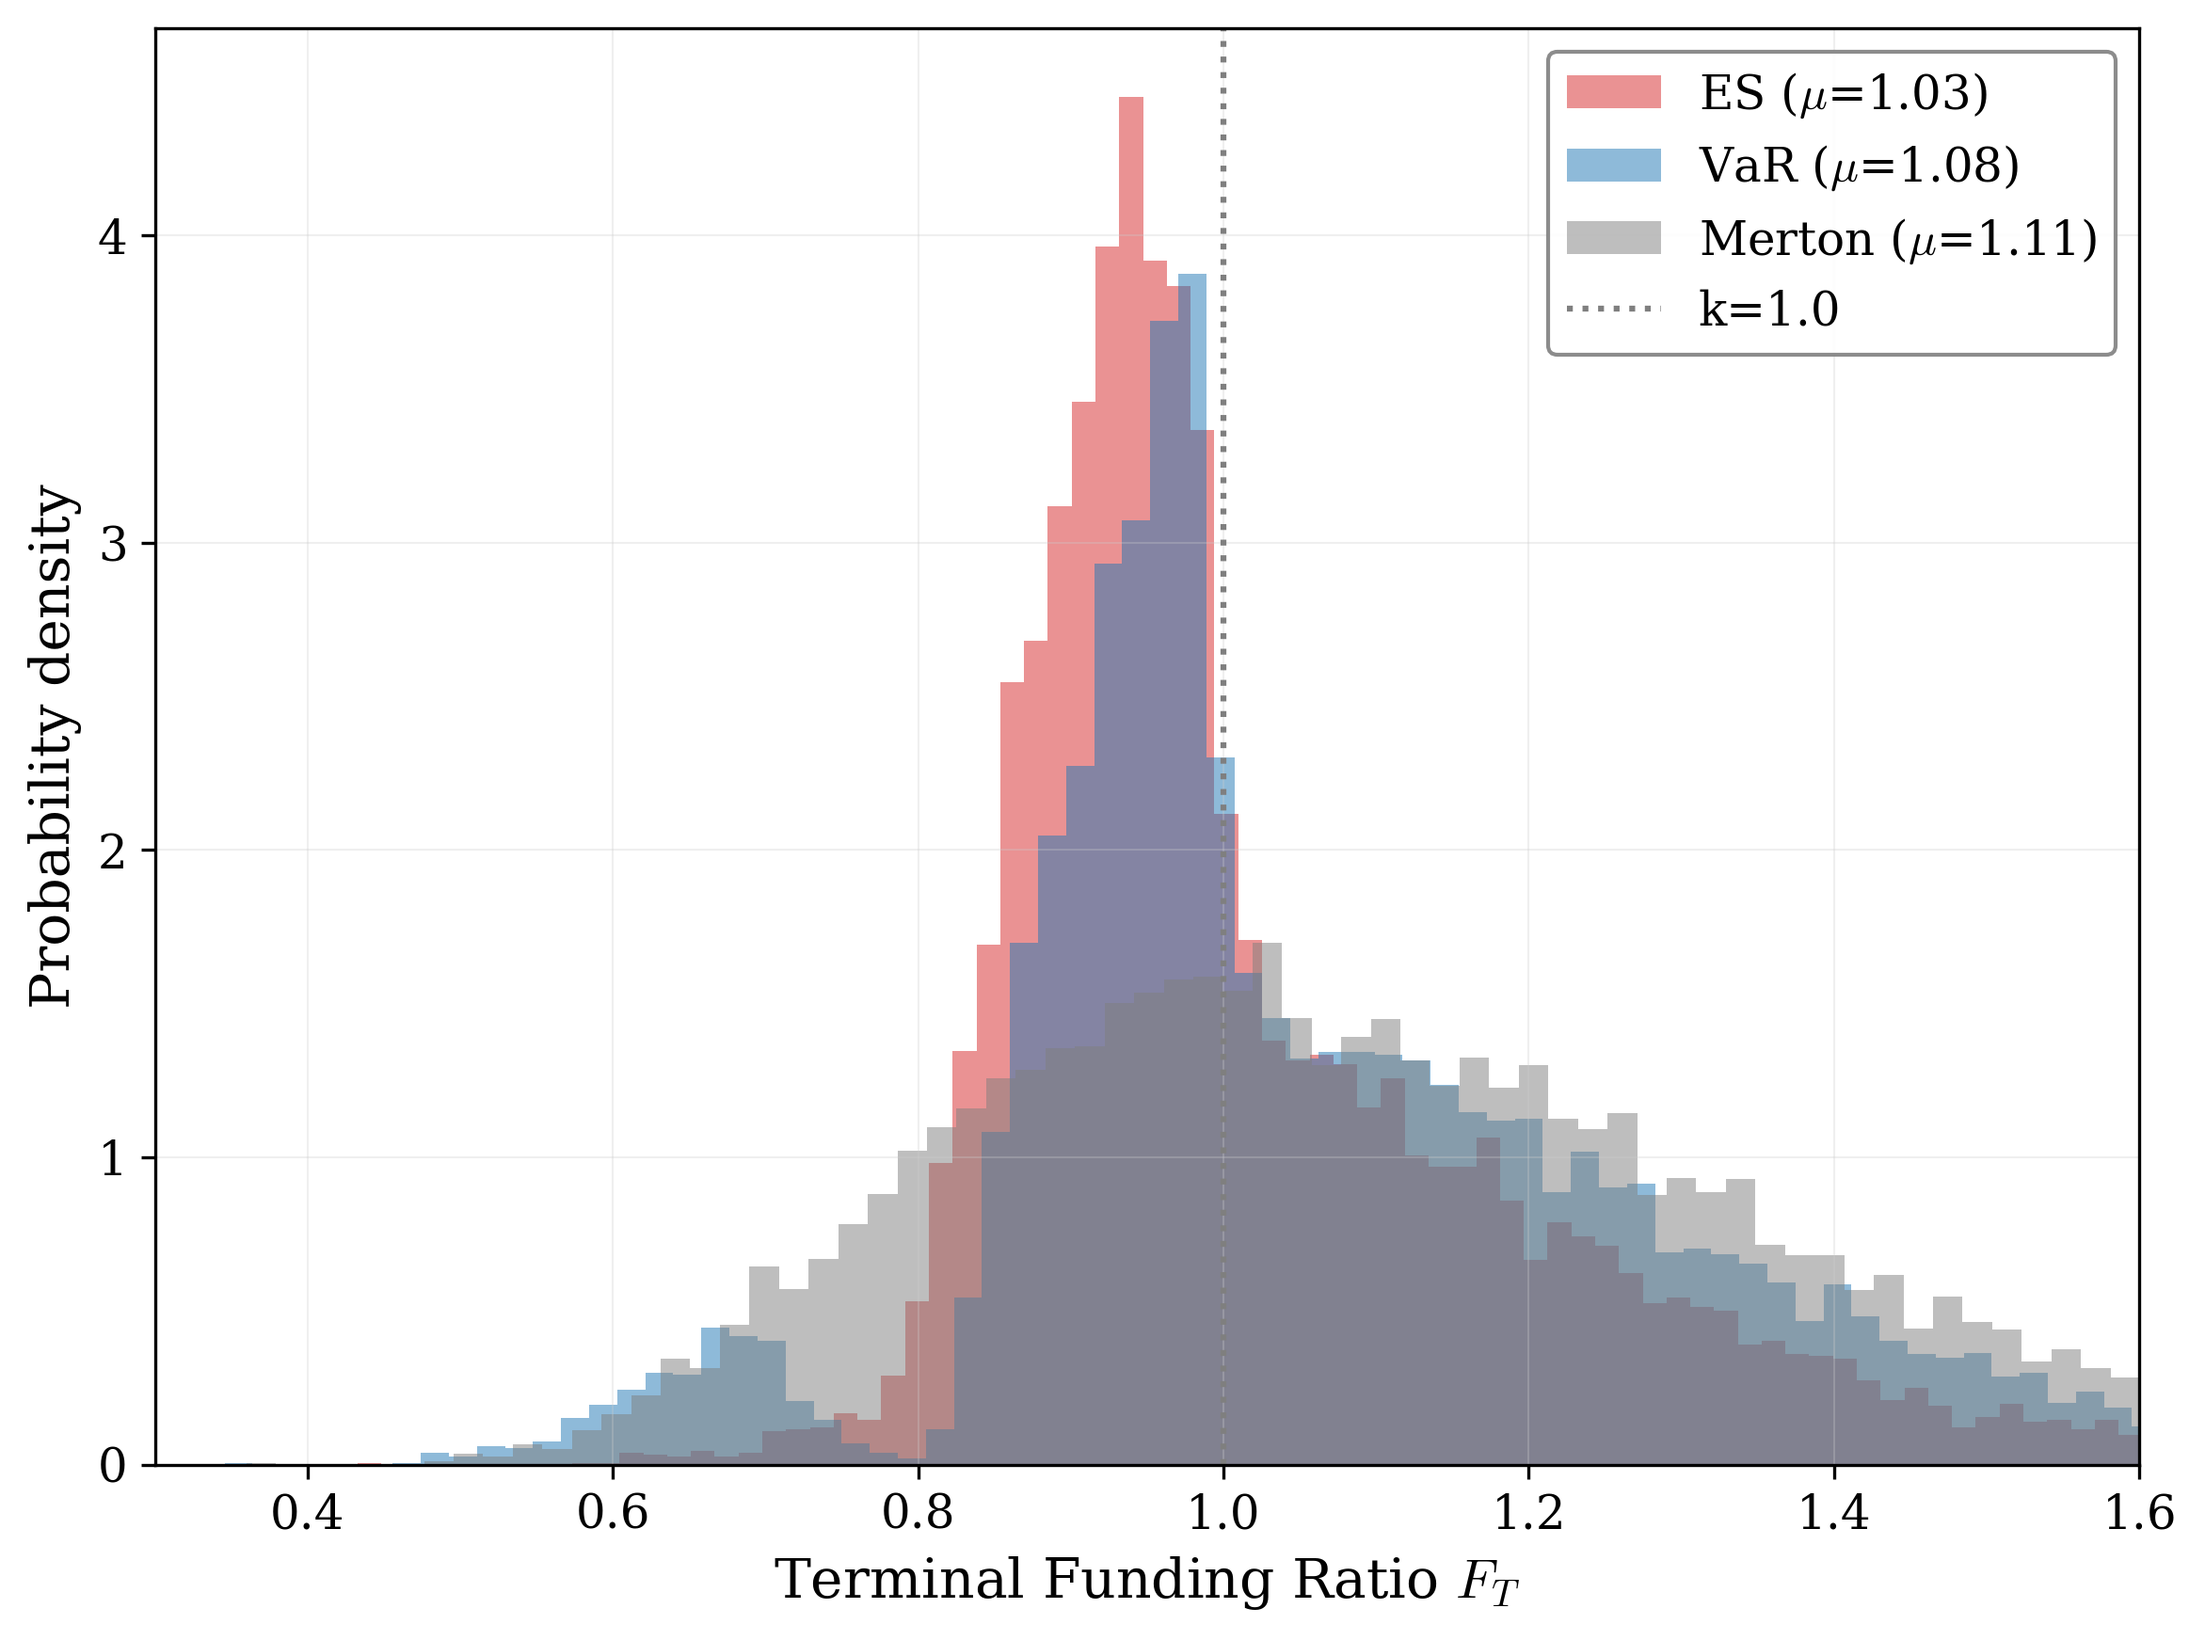
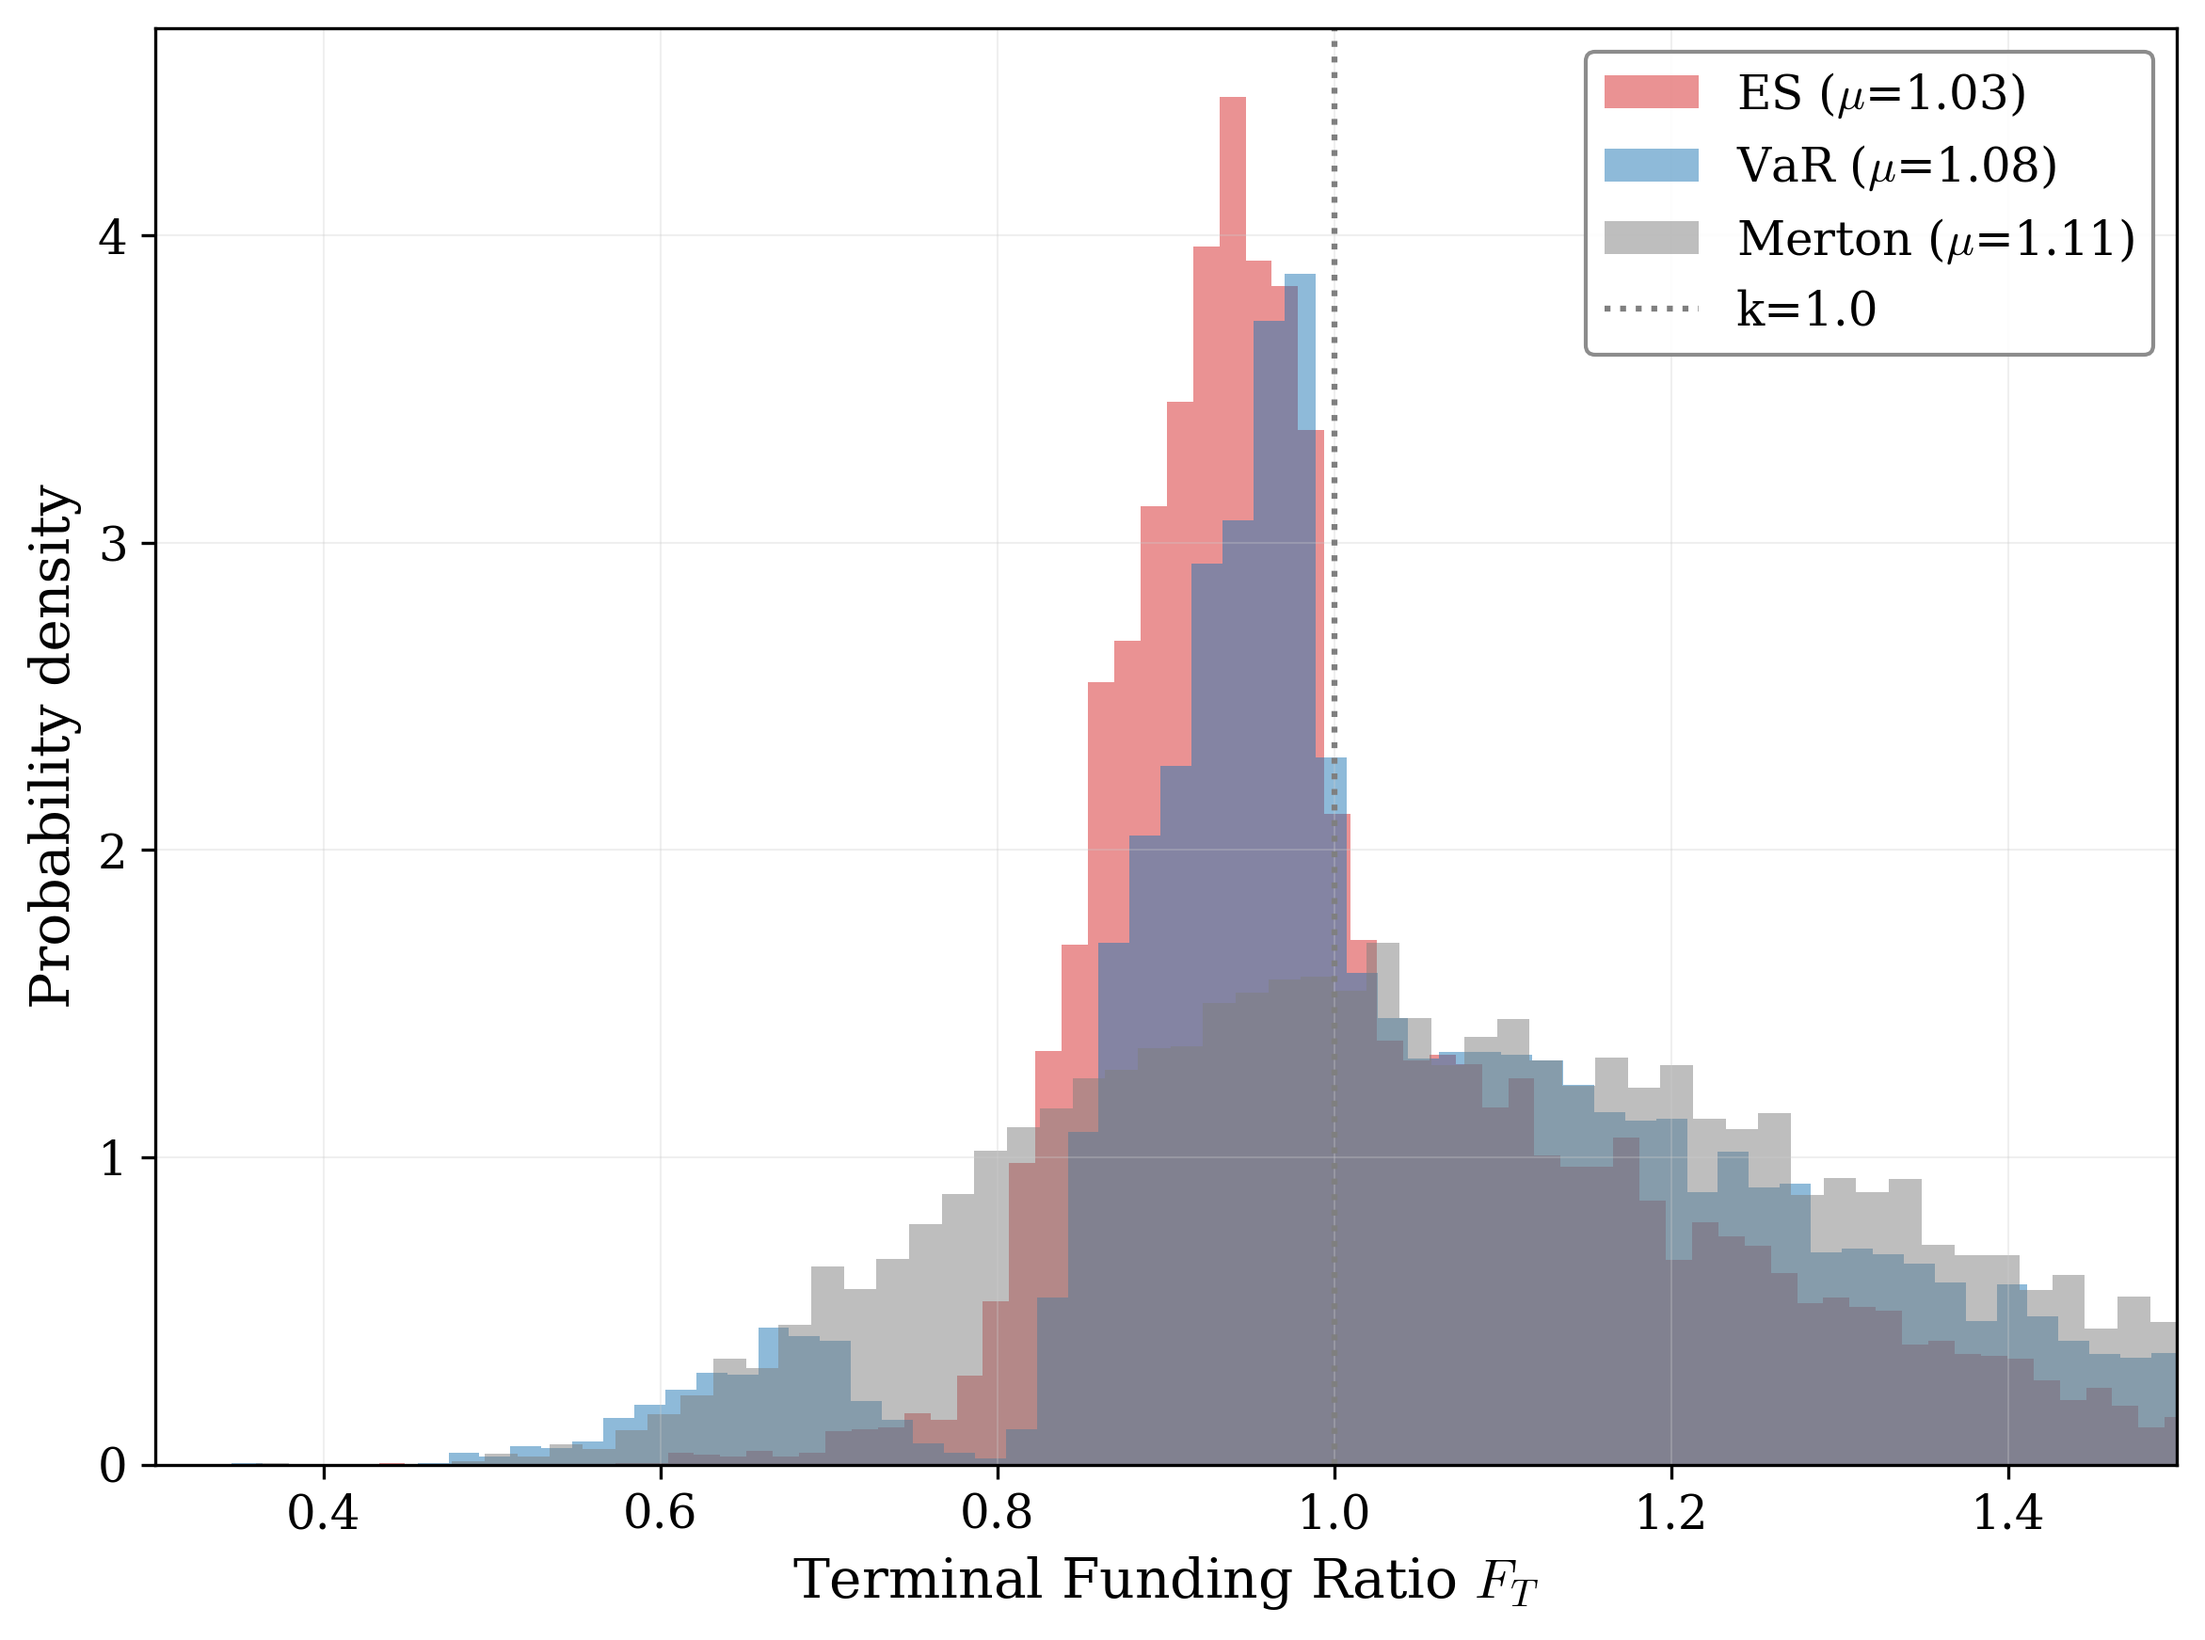
mc_terminal x축 상한 1.6 → 1.5로 조정
https://claude.ai/code/session_01E9AbtNBUX5weQS1WjorM56

diff --git a/scripts/run_monte_carlo.py b/scripts/run_monte_carlo.py
@@ -105,7 +105,7 @@ def run_scenario(y0, tag=""):
     ax.axvline(P.k, **MERTON_LINE, label=f'k={P.k}')
     ax.set_xlabel('Terminal Funding Ratio $F_T$')
     ax.set_ylabel('Probability density')
-    ax.set_xlim(0.3, 1.6)
+    ax.set_xlim(0.3, 1.5)
     ax.set_title(f'Terminal Distribution ($F_0$={y0}, $T$={P.T:.0f})')
     ax.legend(**LEGEND)
     setup_grid(ax)

diff --git a/scripts/generate_paper_figures.py b/scripts/generate_paper_figures.py
@@ -710,7 +710,7 @@ def run_mc_scenario(y0):
     ax.axvline(P.k, **MERTON_REF, label=f'k={P.k}')
     ax.set_xlabel('Terminal Funding Ratio $F_T$')
     ax.set_ylabel('Probability density')
-    ax.set_xlim(0.3, 1.6)
+    ax.set_xlim(0.3, 1.5)
     ax.legend(**LEGEND)
     paper_grid(ax)
     fig.tight_layout()
